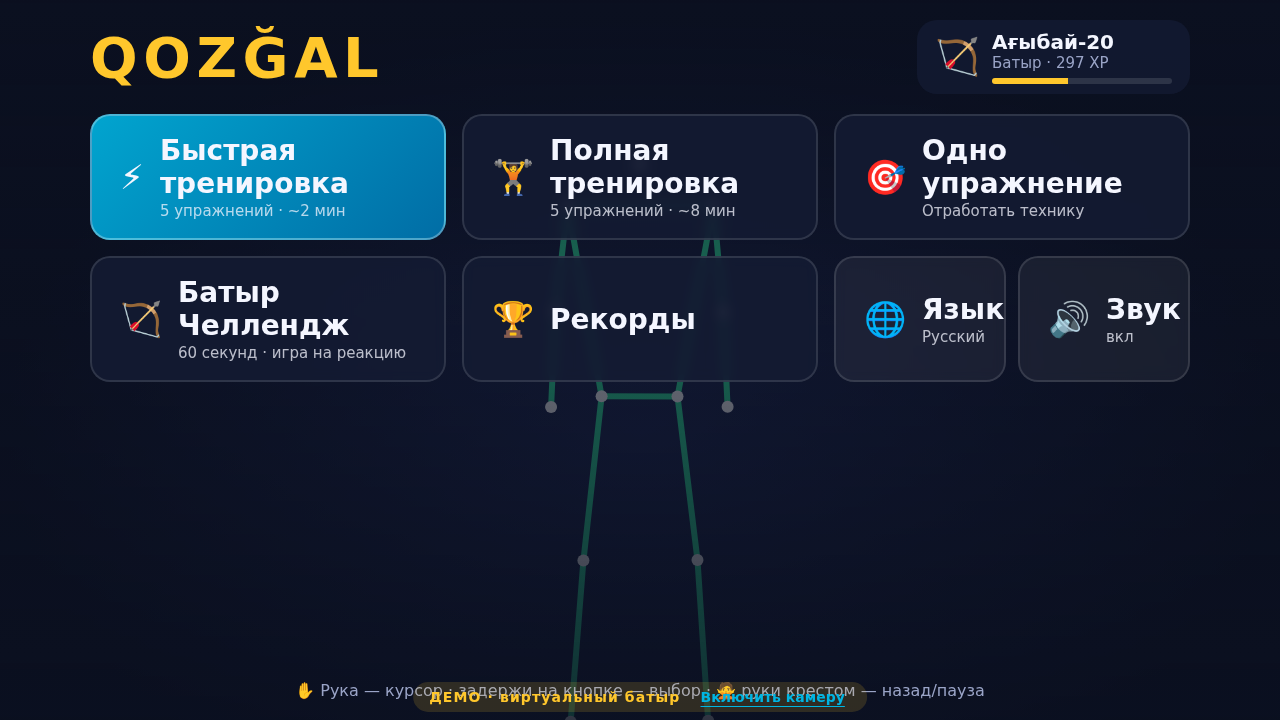
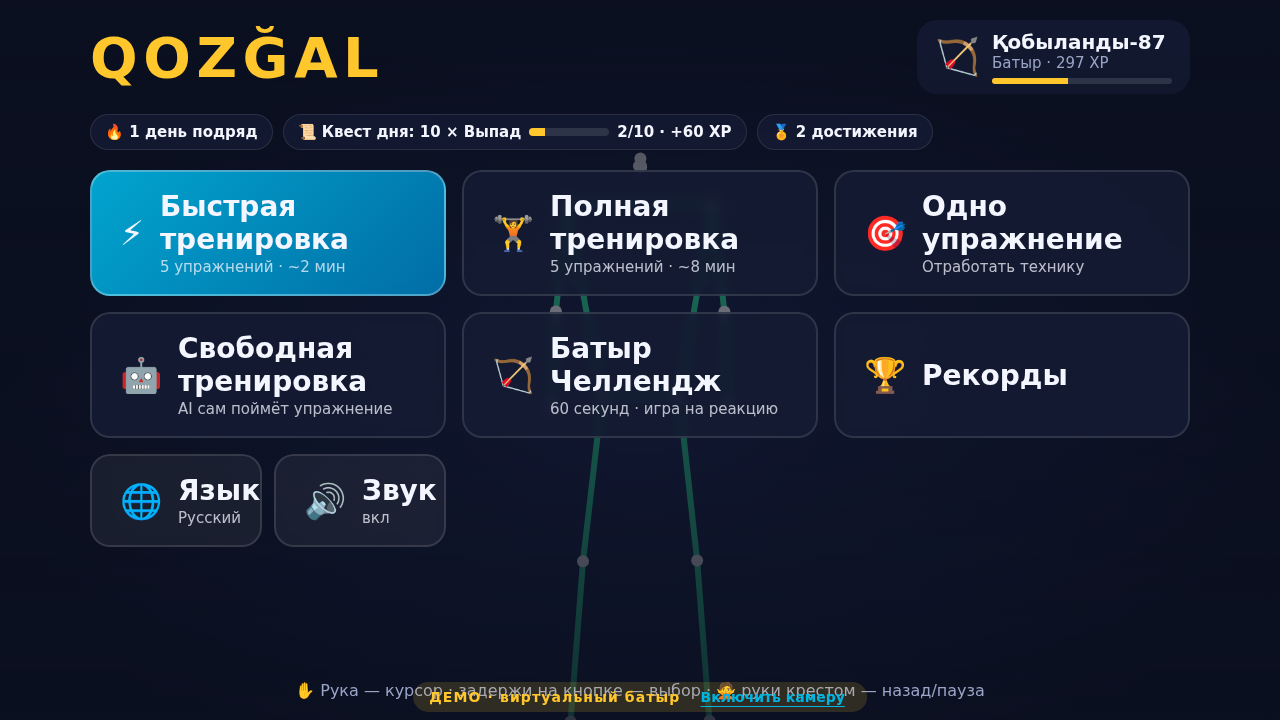
docs: README/ISSUES/SUBMISSION for free workout, accuracy, gamification, leaderboard, DTW; new screenshots
Claude-Session: https://claude.ai/code/session_01DxKmW8xufZ11V5jJxNnBbY

diff --git a/docs/SUBMISSION.md b/docs/SUBMISSION.md
@@ -2,7 +2,7 @@
 
 **Название команды:** _точно как при регистрации_
 
-**Репозиторий:** https://github.com/k41270075-stack/admithack
+**Репозиторий:** https://github.com/zhomarterkhainar-svg/admit
 
 **Рабочая версия:** _https://…vercel.app_ (можно проверить без камеры: кнопка «Демо без камеры»)
 
@@ -22,6 +22,8 @@
 засчитано и попытки, % чистой техники, время, калории, опыт, новый ранг (Жас батыр → Батыр → Ер → Алып)
 и **три самые частые ошибки с советами**. Режим **«Батыр Челлендж»**: 60-секундная игра на реакцию
 («ПРИСЕД!», «ЩИТ ВВЕРХ!», «УКЛОН ВЛЕВО!») с очками, серией-множителем, жизнями и таблицей рекордов.
+**«Свободная тренировка»**: делай любые упражнения, собственная kNN-модель сама распознаёт, какое, и считает каждое.
+Геймификация: XP и ранги, 11 достижений, серия дней, квест дня, таблица лидеров (сегодня / неделя / всё время, мировая).
 Три языка: русский, казахский, английский.
 
 ## Как реализован режим «ошибка»
@@ -51,10 +53,12 @@
 ## Технологии и собственная логика
 
 TypeScript, React, Vite, MediaPipe Tasks Vision (Pose Landmarker, модели хостятся у нас).
+Точность: персональная калибровка (компенсация позы и наклона камеры), правила только по видимым суставам, фильтр шума,
+DTW-оценка плавности каждого повтора.
 Написано командой: One Euro Filter, признаки в 3D с нормировкой по росту, конечные автоматы, DSL правил ошибок,
 арбитр подсказок, kNN-классификатор поз с собственной обучающей выборкой, курсор «reach box» и dwell-клик, детекторы жестов,
 правила игры, синтезированные звуки домбры, **демо-режим без камеры** (виртуальный батыр специально ошибается,
-движок сам это находит). 80+ юнит-тестов, CI. Всё работает в браузере, видео не покидает устройство.
+движок сам это находит). 110+ юнит-тестов, CI. Всё работает в браузере, видео не покидает устройство.
 
 ---
 

diff --git a/docs/ISSUES.md b/docs/ISSUES.md
@@ -32,6 +32,13 @@
 - ✅ kNN-классификатор поз («другое упражнение»), `npm run train`
 - ✅ Голос: при kk без казахского голоса озвучка по-русски
 - ✅ Скриншоты в README
+- ✅ Персональная база (калибровка / авто), правила только по видимым суставам, фильтр шумовых повторов
+- ✅ Аугментация модели (поворот, наклон камеры, зеркало, шум глубины) + тест устойчивости
+- ✅ Свободная тренировка: AI распознаёт упражнение (kNN) и считает каждое
+- ✅ Геймификация: 11 ачивок, серия дней, квест дня, «N чисто подряд», голосовой счёт
+- ✅ Лидерборд: сегодня/неделя/всё время, мировой через Supabase (docs/LEADERBOARD.md)
+- ✅ DTW-плавность повторов
+- ✅ Новый репозиторий zhomarterkhainar-svg/admit, ветка main
 
 ## 🔴 Осталось (приоритет сверху вниз)
 
@@ -41,7 +48,8 @@
 2. 🔴 **[B] Подстроить пороги** в `src/exercises/*/config.ts` по записям людей ростом 160–195 см. Особенно:
    глубина приседа (`depthMax`), выпад во фронтальной камере (`frontKneeMax`, `backKneeMax`), `openEnter` у Jumping Jack.
 3. 🔴 **[A] Проверить жесты вживую**: удобство reach box курсора, отсутствие ложных «рук крестом» и «рук вверх» во время упражнений.
-4. **[D] Подключить Vercel**, ссылку в README; проверить с телефона (HTTPS) и из инкогнито.
+4. **[D] Подключить Vercel** (репо zhomarterkhainar-svg/admit, ветка main), ссылку в README; проверить с телефона и из инкогнито.
+4a. **[D] (5 мин) Мировой лидерборд**: Supabase по docs/LEADERBOARD.md → две переменные в Vercel.
 5. **[ALL] Тест-матрица** PLAN.md §12: Chrome/Edge/Safari/Firefox, Android/iPhone, слабый ноутбук.
 
 ### P1: баллы за UX и защиту
@@ -53,6 +61,6 @@
 
 ### P2: если останется время
 11. ✅ ~~**[B] kNN-классификатор поз**~~: готов, осталось `npm run train` на записях команды.
-12. **[B] DTW-оценка качества** повтора против эталонной траектории.
+12. ✅ ~~**[B] DTW-оценка**~~: метрика «Плавность» в итогах.
 13. **[D] PWA** (офлайн после первой загрузки).
 14. **[B] Планка** (вид сбоку).

diff --git a/PLAN.md b/PLAN.md
@@ -11,7 +11,8 @@
 **Продукт собран целиком и проходит весь сценарий** (проверено e2e в демо-режиме без ошибок консоли):
 5 упражнений, 22 правила техники и 8 правил кадра, kNN «другое упражнение», жесты (курсор + dwell, руки вверх, крест, свайп), калибровка,
 программы, пауза, итоги, рекорды, Батыр Челлендж, призрак правильной позы, голос и звуки, ru/kk/en, мобильная версия,
-демо без камеры, dev-инструменты. 80+ тестов зелёные.
+демо без камеры, dev-инструменты, свободная тренировка с распознаванием упражнения, геймификация (ачивки, серия, квест дня),
+лидерборд (включая мировой), персональная калибровка, DTW-плавность. 110+ тестов зелёные. Репо: zhomarterkhainar-svg/admit.
 
 **Главное, что осталось людям с камерой:** прогнать вживую, записать фикстуры (`?dev=1` → ● rec),
 подстроить пороги в `src/exercises/*/config.ts`, подключить Vercel, тест-матрица, демо-видео.
